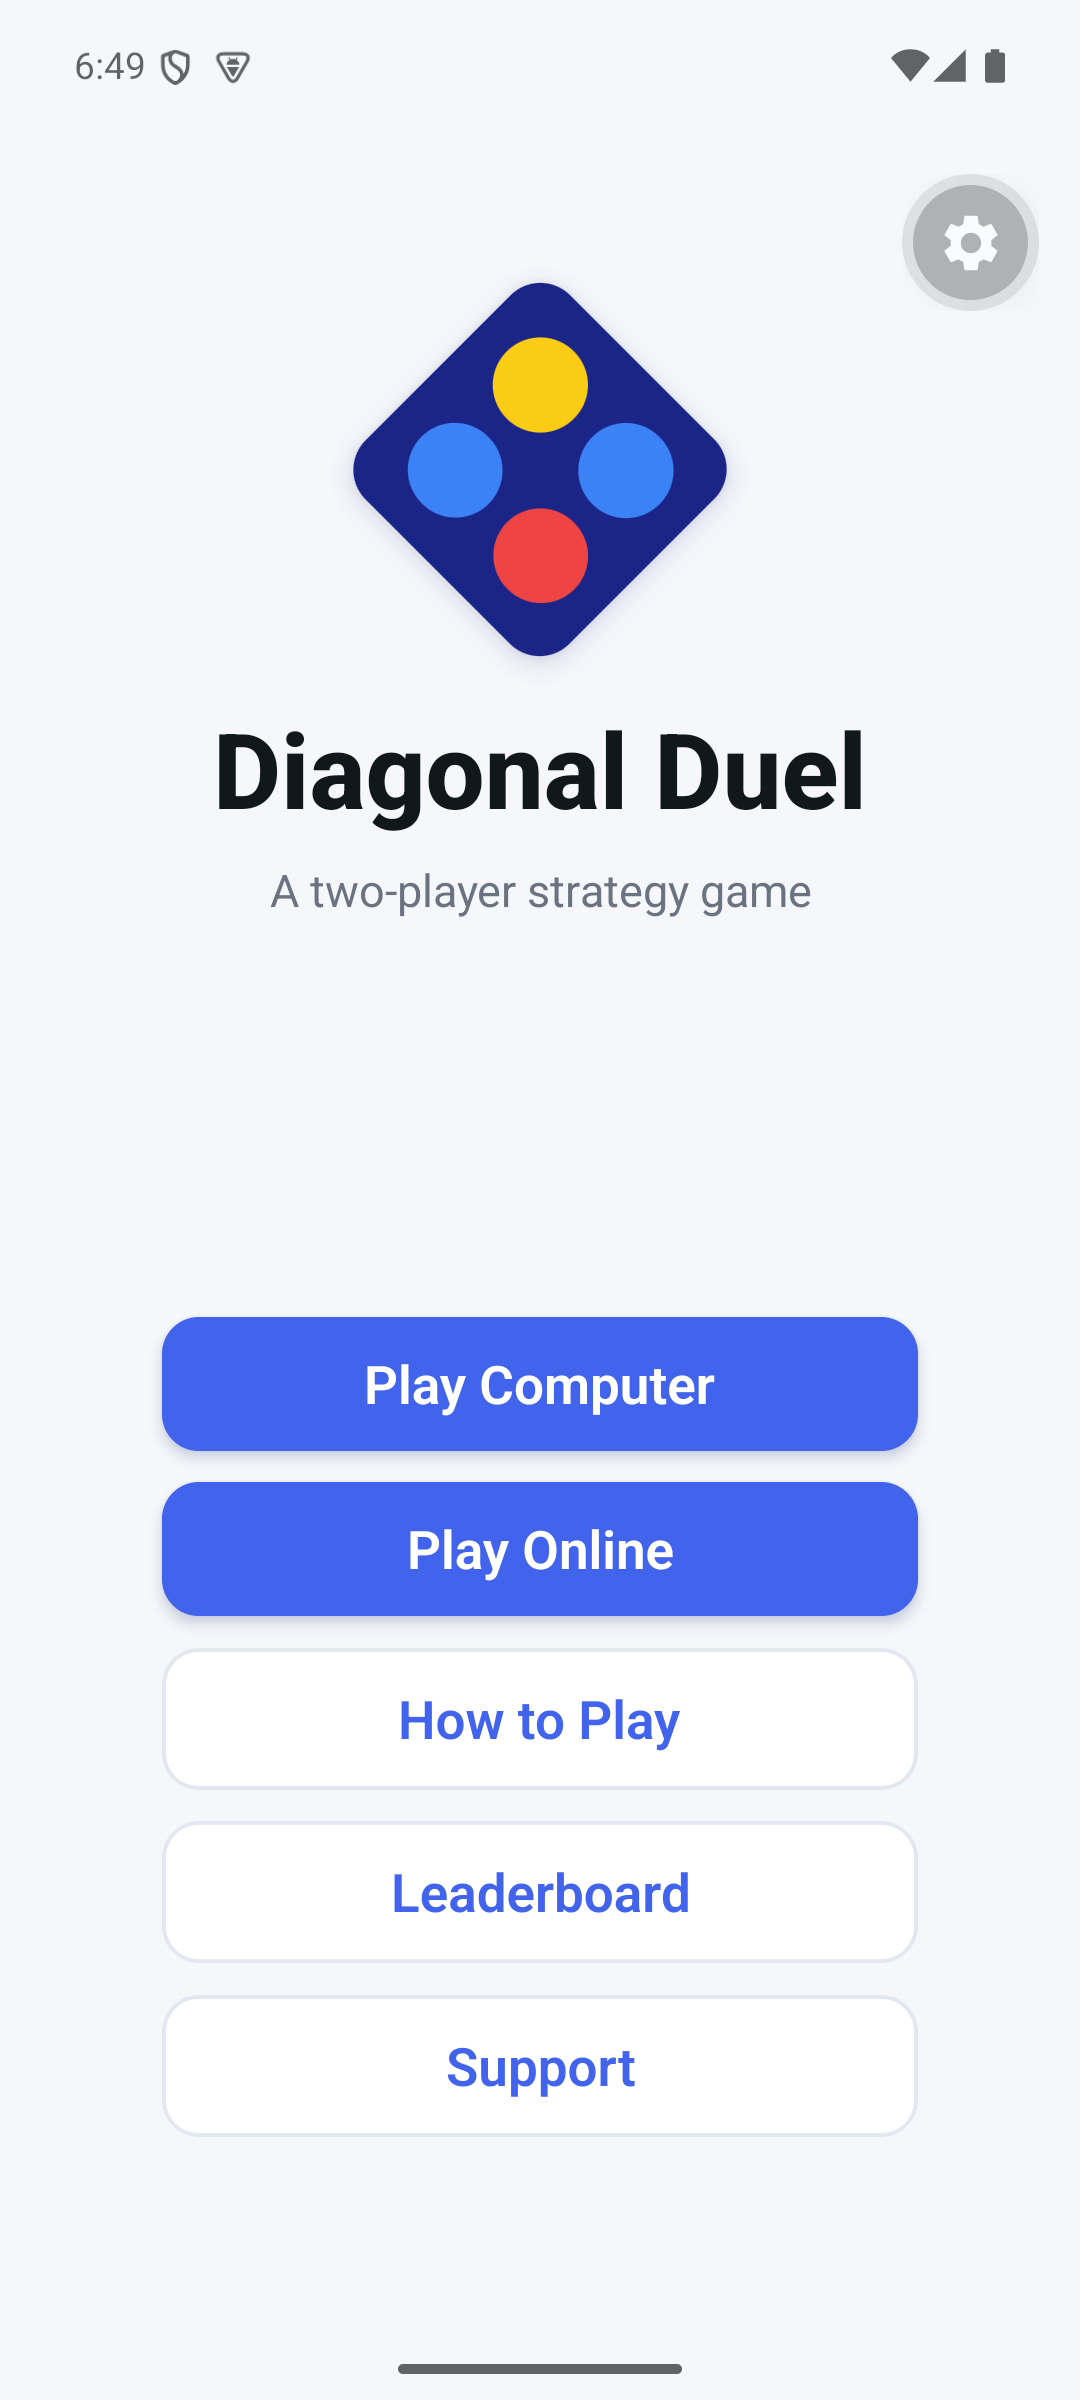
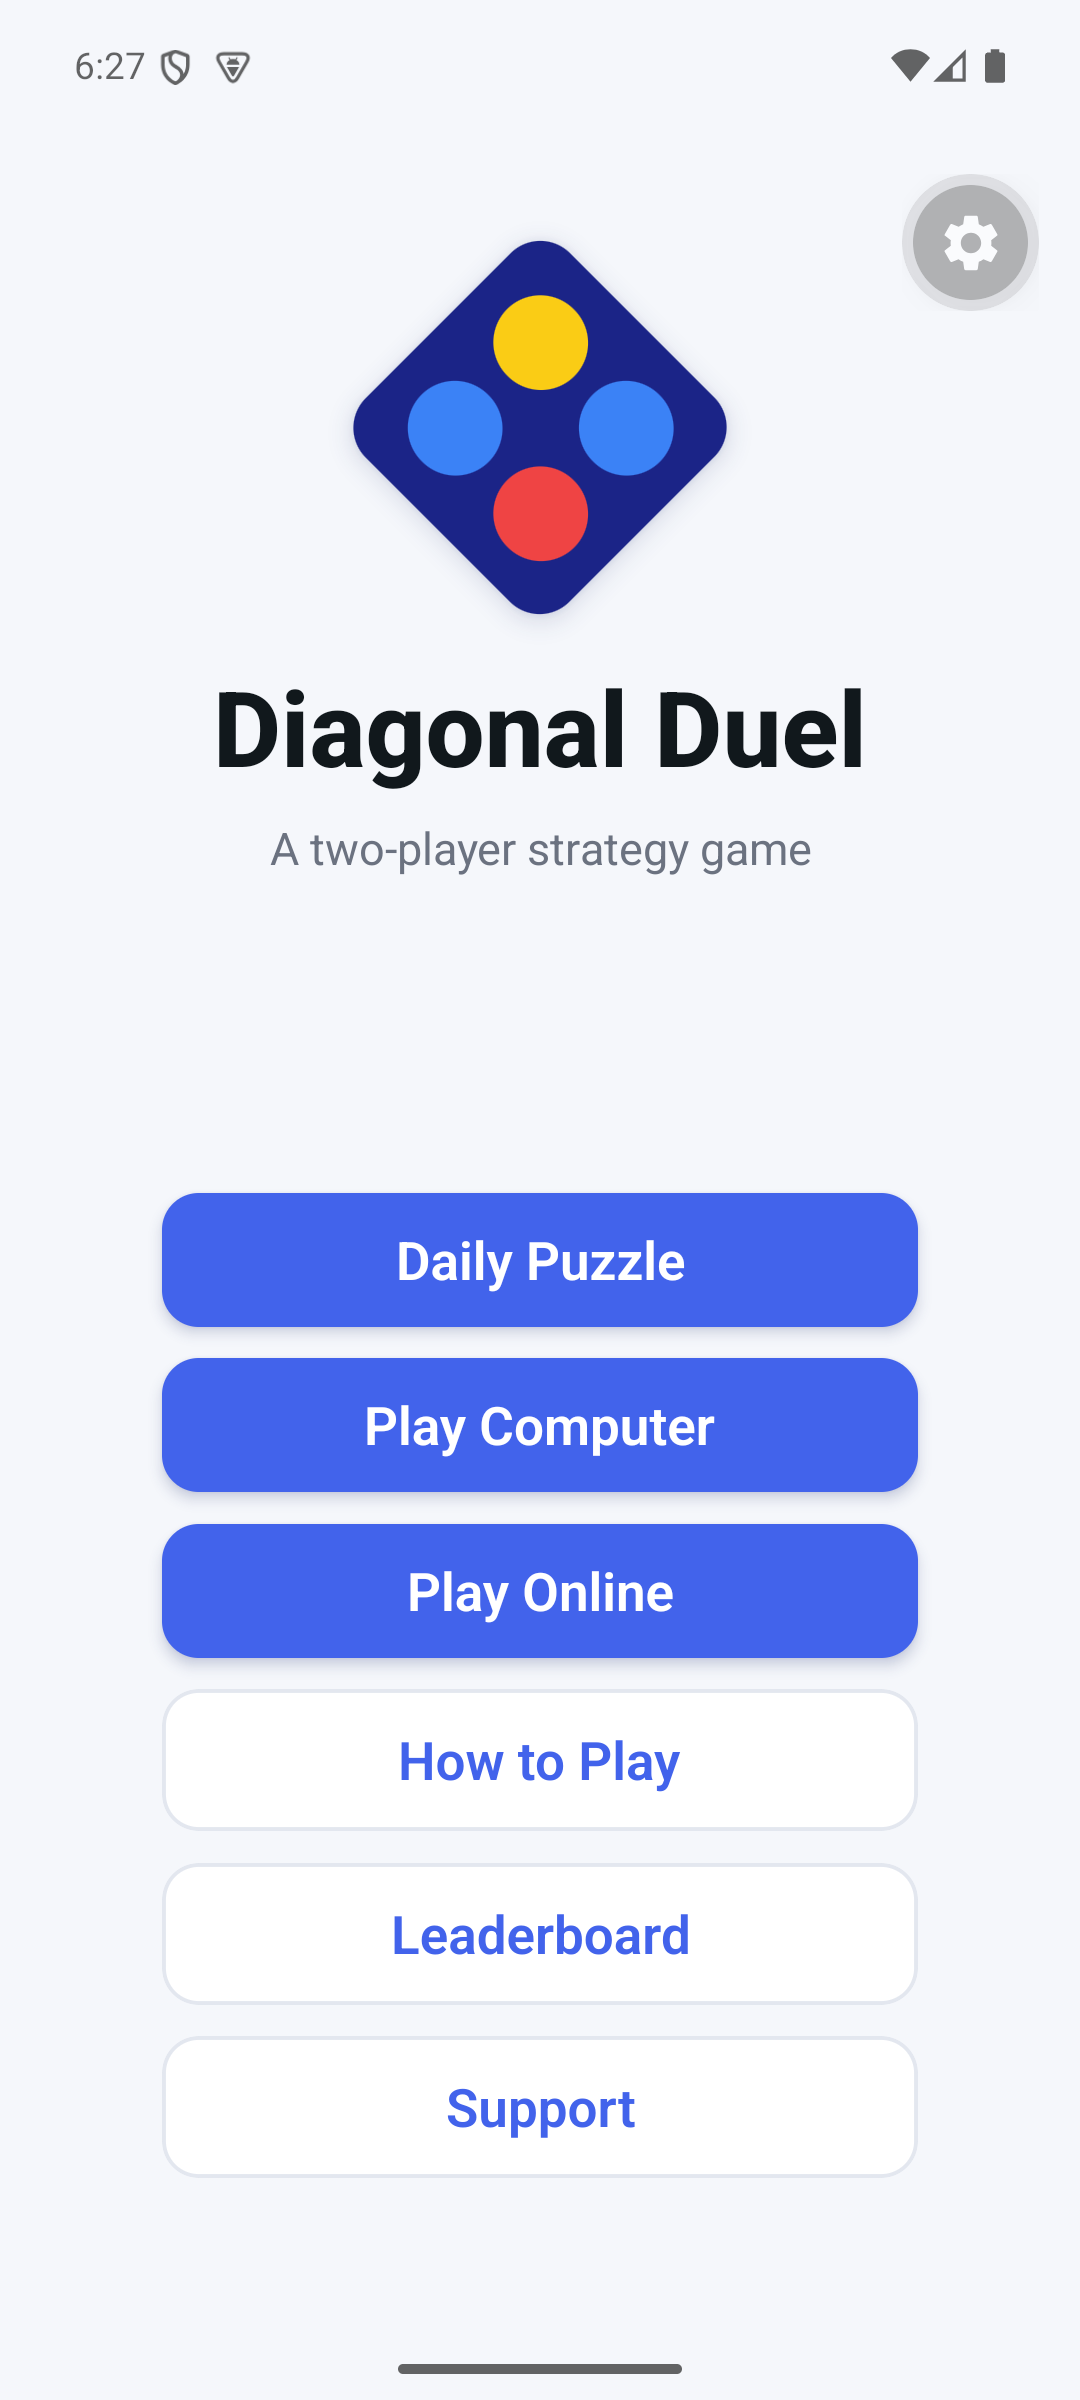
Daily puzzles, stage 3: How to Play step, store text and screenshots (#53) (#57)

Changed region(s): [[0.1528, 0.5, 0.8556, 0.9062], [0.1833, 0.0938, 0.7944, 0.375], [0.0917, 0.0, 0.1222, 0.0312]]

diff --git a/scripts/make-store-art.js b/scripts/make-store-art.js
@@ -11,11 +11,13 @@ const { chromium } = require('playwright-core');
 const raw = path.join(__dirname, '..', 'docs', 'store', 'raw');
 const SHOTS = [
   // showTo: the capture row (of 2400) where the useful part of the screen ends; the empty space below is left out.
-  { file: 'threat.png', name: '1-block-the-line', title: 'Block it before they win', showTo: 1990 },
-  { file: 'win.png', name: '2-four-in-a-row', title: 'Line up four to win', showTo: 1990 },
-  { file: 'level.png', name: '3-play-the-computer', title: 'Play the computer, level 0 to 100', showTo: 1700 },
-  { file: 'how-to-play.png', name: '4-learn-in-a-minute', title: 'Easy to learn in a minute', showTo: 2150 },
-  { file: 'home.png', name: '5-ways-to-play', title: 'Computer, friends or online', showTo: 2200 },
+  { file: 'puzzle.png', name: '1-daily-puzzle', title: 'A new puzzle every day', showTo: 1750 },
+  { file: 'threat.png', name: '2-block-the-line', title: 'Block it before they win', showTo: 1990 },
+  { file: 'puzzle-solved.png', name: '3-keep-your-streak', title: 'Keep your streak going', showTo: 1950 },
+  { file: 'win.png', name: '4-four-in-a-row', title: 'Line up four to win', showTo: 1990 },
+  { file: 'level.png', name: '5-play-the-computer', title: 'Play the computer, level 0 to 100', showTo: 1700 },
+  { file: 'how-to-play.png', name: '6-learn-in-a-minute', title: 'Easy to learn in a minute', showTo: 2290 },
+  { file: 'home.png', name: '7-ways-to-play', title: 'Puzzle, computer, friends or online', showTo: 2200 },
 ];
 // 1080x2400 captures: drop the status bar at the top and the gesture bar at the bottom.
 const CROP_TOP = 118;

diff --git a/app/(screens)/__tests__/how-to-play.test.tsx b/app/(screens)/__tests__/how-to-play.test.tsx
@@ -1,0 +1,22 @@
+import React from 'react';
+import { act, create } from 'react-test-renderer';
+import HowToPlay from '../how-to-play';
+
+jest.mock('@/contexts/RouteContext', () => ({ useRouteTo: () => ({ routeBack: jest.fn() }) }));
+jest.mock('@/components/CustomHeaderView', () => ({ CustomHeaderView: ({ children }: any) => children }));
+
+const flatten = (node: any): string => (node == null ? '' : typeof node === 'string' ? node
+    : Array.isArray(node) ? node.map(flatten).join(' ') : (node.children || []).map(flatten).join(''));
+
+describe('How to Play', () => {
+    it('explains the rules and the daily puzzle, and describes the valid-move marker as it looks', async () => {
+        let tree!: ReturnType<typeof create>;
+        await act(async () => { tree = create(<HowToPlay />); });
+        const text = flatten(tree.toJSON());
+        expect(text).toContain('Take turns');
+        expect(text).toContain('Get four in a row');
+        expect(text).toContain('Try the daily puzzle');
+        expect(text).toContain('small light dot');
+        expect(text).not.toContain('purple'); // the marker is a pale dot, not purple
+    });
+});

diff --git a/app/(screens)/how-to-play.tsx b/app/(screens)/how-to-play.tsx
@@ -19,11 +19,15 @@ const STEPS = [
     },
     {
         title: "Not sure where you can play?",
-        body: "Tap Show Valid Moves during a game and every legal square lights up purple.",
+        body: "Tap Show Valid Moves during a game and every legal square shows a small light dot.",
     },
     {
         title: "Get four in a row",
         body: "Four of your pieces in a straight line wins, whether across, down or diagonally. If the board fills up with no winner, the game is a draw.",
+    },
+    {
+        title: "Try the daily puzzle",
+        body: "Every day there is a new position where one move wins by force. Find the win, keep your streak going and share your result.",
     },
 ];
 

diff --git a/docs/store/listing.md b/docs/store/listing.md
@@ -9,14 +9,19 @@ Copy these into App Store Connect and the Google Play Console. Only claims what 
 | Apple name (30) | Diagonal Duel: 4 in a Row |
 | Apple subtitle (30) | Strategy board game for two |
 | Google title (30) | Diagonal Duel: Four in a Row |
-| Google short description (80) | Four-in-a-row strategy on a diamond board. Play the computer or a friend. |
-| Apple promotional text (170) | Line up four on an 8x8 diamond board. Play the computer at any level from 0 to 100, pass the phone to a friend, or take on other players online. |
+| Google short description (80) | A new four-in-a-row puzzle every day, plus games vs the computer or a friend. |
+| Apple promotional text (170) | Solve a new four-in-a-row puzzle every day, play the computer at any level from 0 to 100, or challenge friends online. Free. |
 | Apple keywords (100) | strategy,board game,puzzle,two player,2 player,offline,abstract,logic,vs computer,brain,classic,duel |
 | Category | Games, then Board (Apple primary; Strategy secondary) and Google "Board" |
 
 ## Full description (use for both stores)
 
-Diagonal Duel is a quick strategy game for two: take turns placing pieces on an 8x8 board, and be the first to line up four in a row, across, down or diagonally.
+Diagonal Duel is a quick strategy game: take turns placing pieces on an 8x8 board, and be the first to line up four in a row, across, down or diagonally. Play a friend, the computer, or solve a new puzzle every day.
+
+A NEW PUZZLE EVERY DAY
+- Every day there is a new position where one move wins by force. Find the winning moves in as few tries as you can.
+- Puzzles get harder through the week: a win in one move early on, in three moves at the weekend.
+- Keep your streak going and share your result with friends. No account needed, and it works offline.
 
 A DIFFERENT KIND OF FOUR IN A ROW
 - The board is a diamond, and you build outward from the corner. A piece can only go next to the pieces already in play, so every move opens some lines and closes others.
@@ -39,7 +44,7 @@ YOUR DATA
 
 Upload the images in this folder. They are real screens from the running app with a short headline each.
 
-- App Store: `ios/` (1290 x 2796, accepted for the 6.9-inch and 6.7-inch iPhone slots). Order: 1 to 5.
+- App Store: `ios/` (1290 x 2796, accepted for the 6.9-inch and 6.7-inch iPhone slots). Order: 1 to 7. The first two show the daily puzzle, since the first screenshots decide whether a visitor installs.
 - Google Play: `android/` (1080 x 1920). Same order.
 
 To remake them after the app changes: capture new screens into `raw/`, then run `node scripts/make-store-art.js <path to a Chromium>` (needs `playwright-core`).
